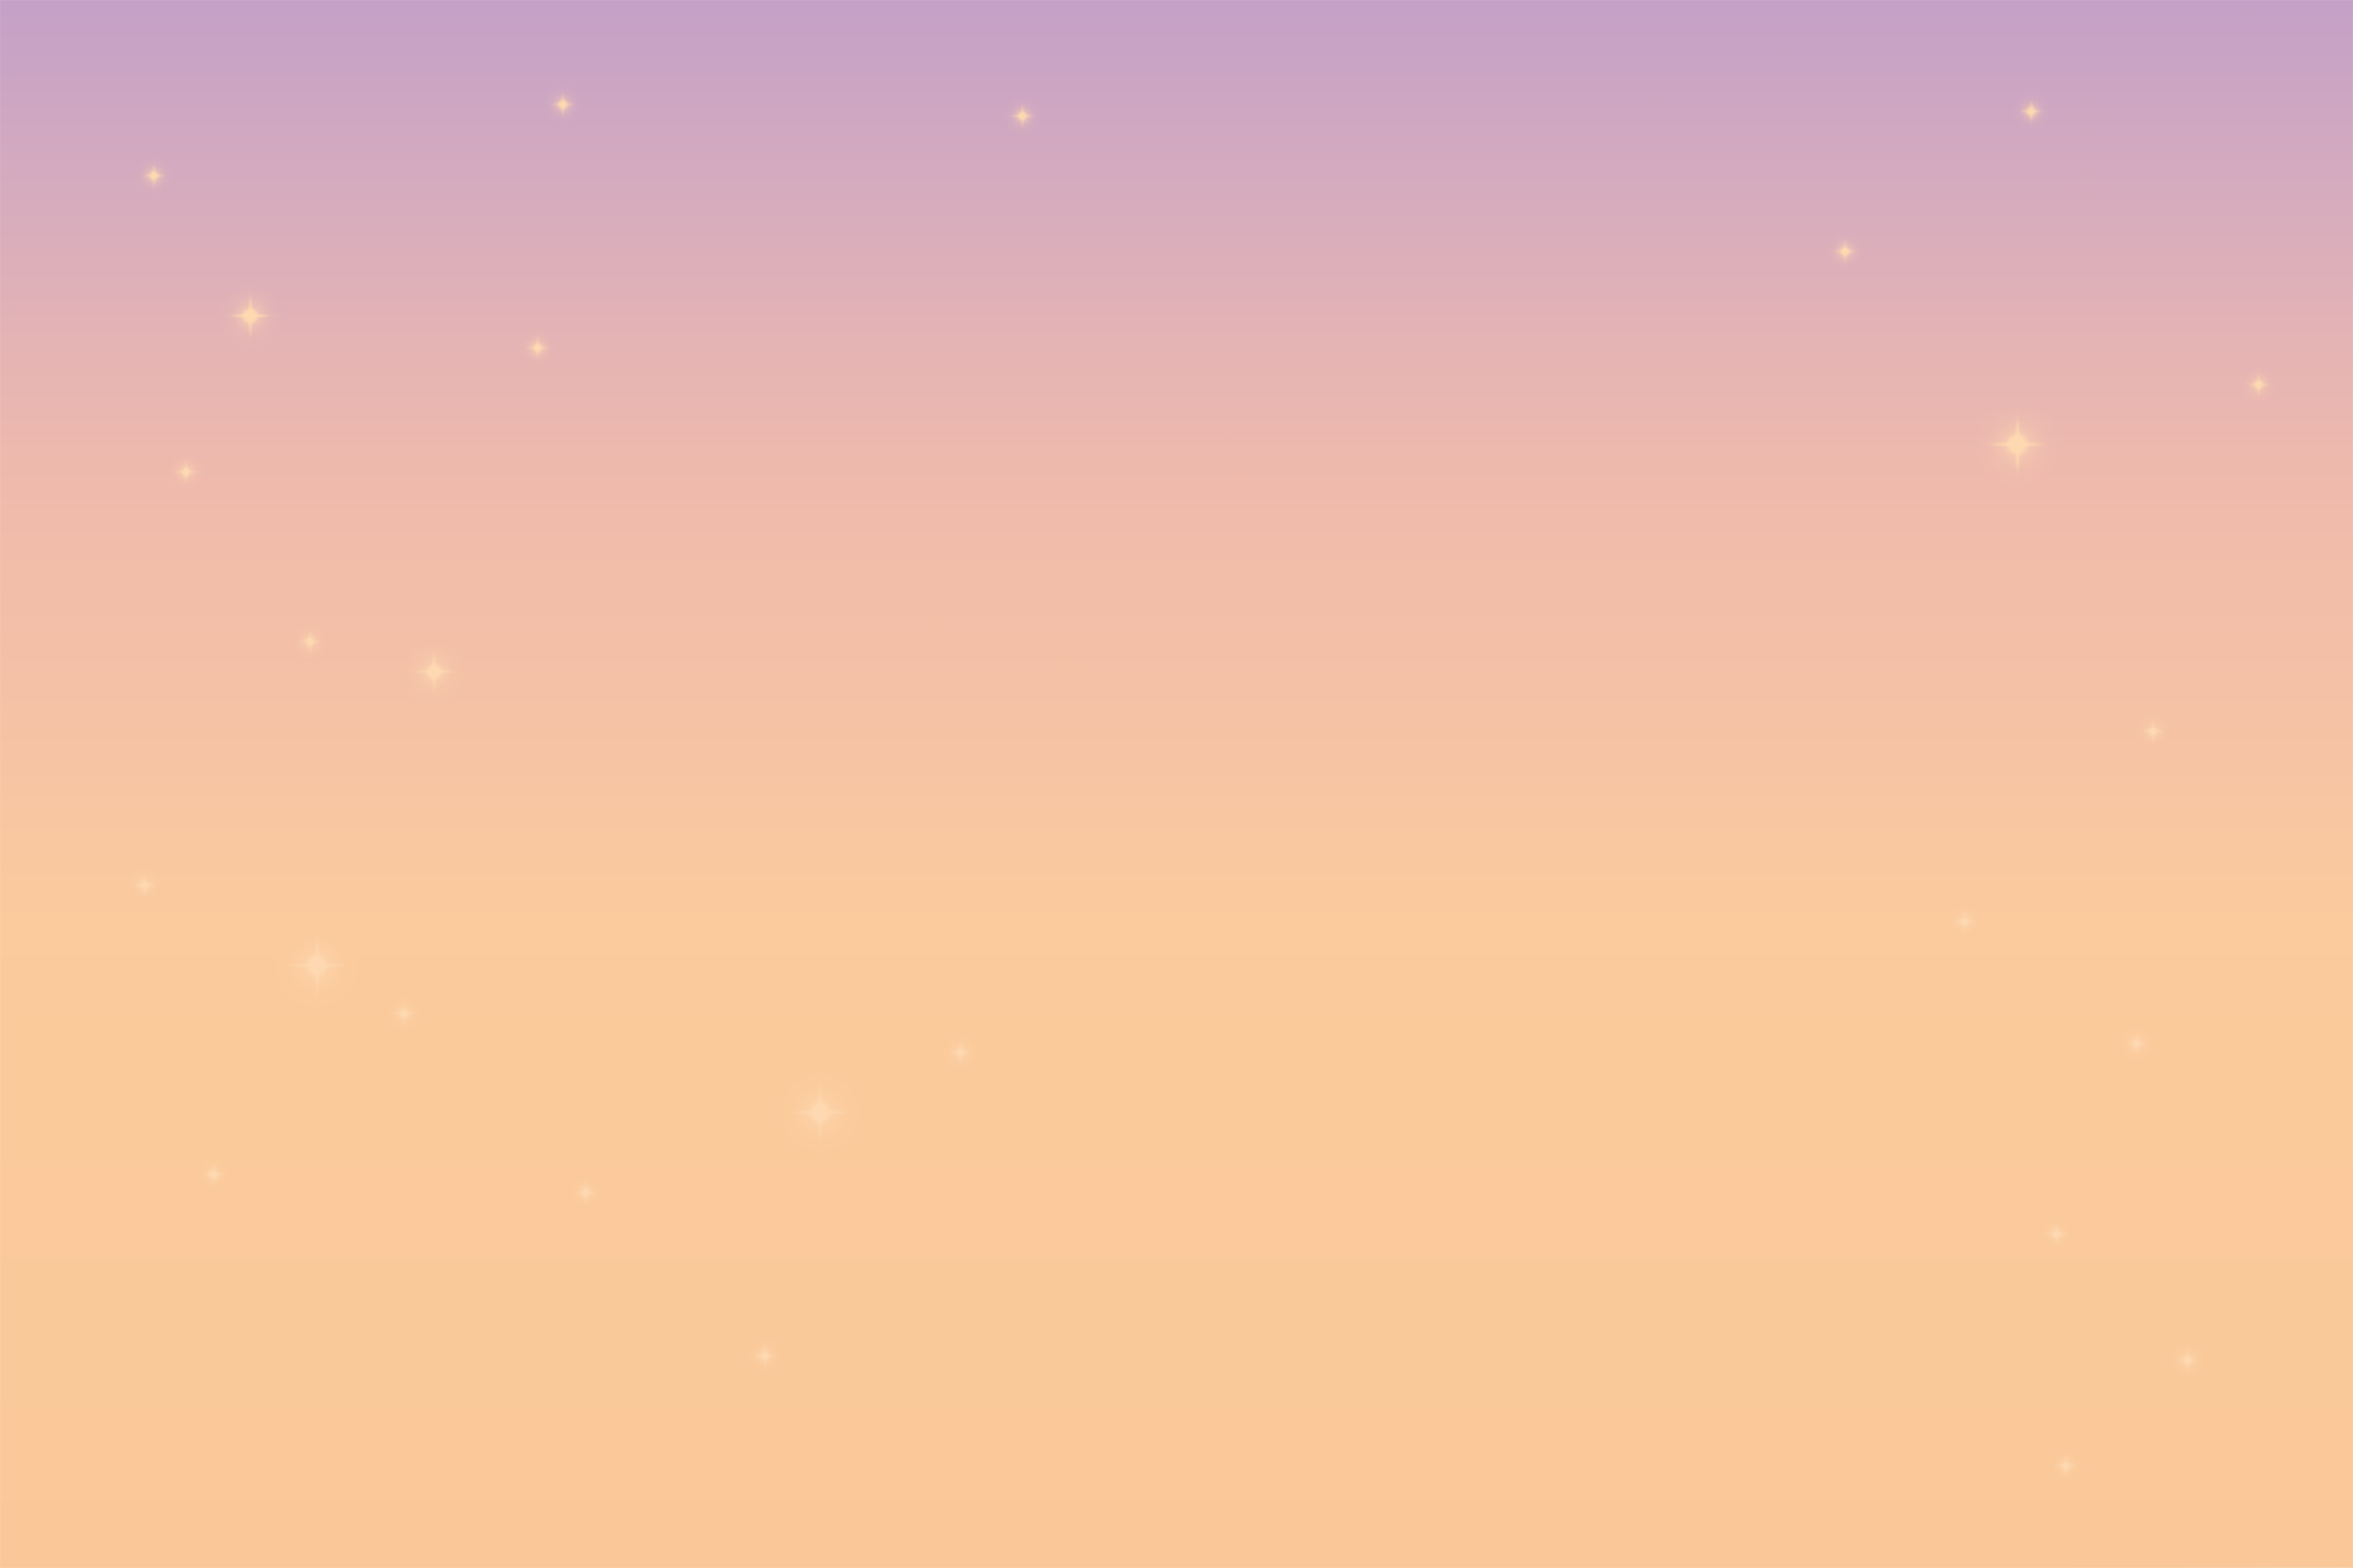
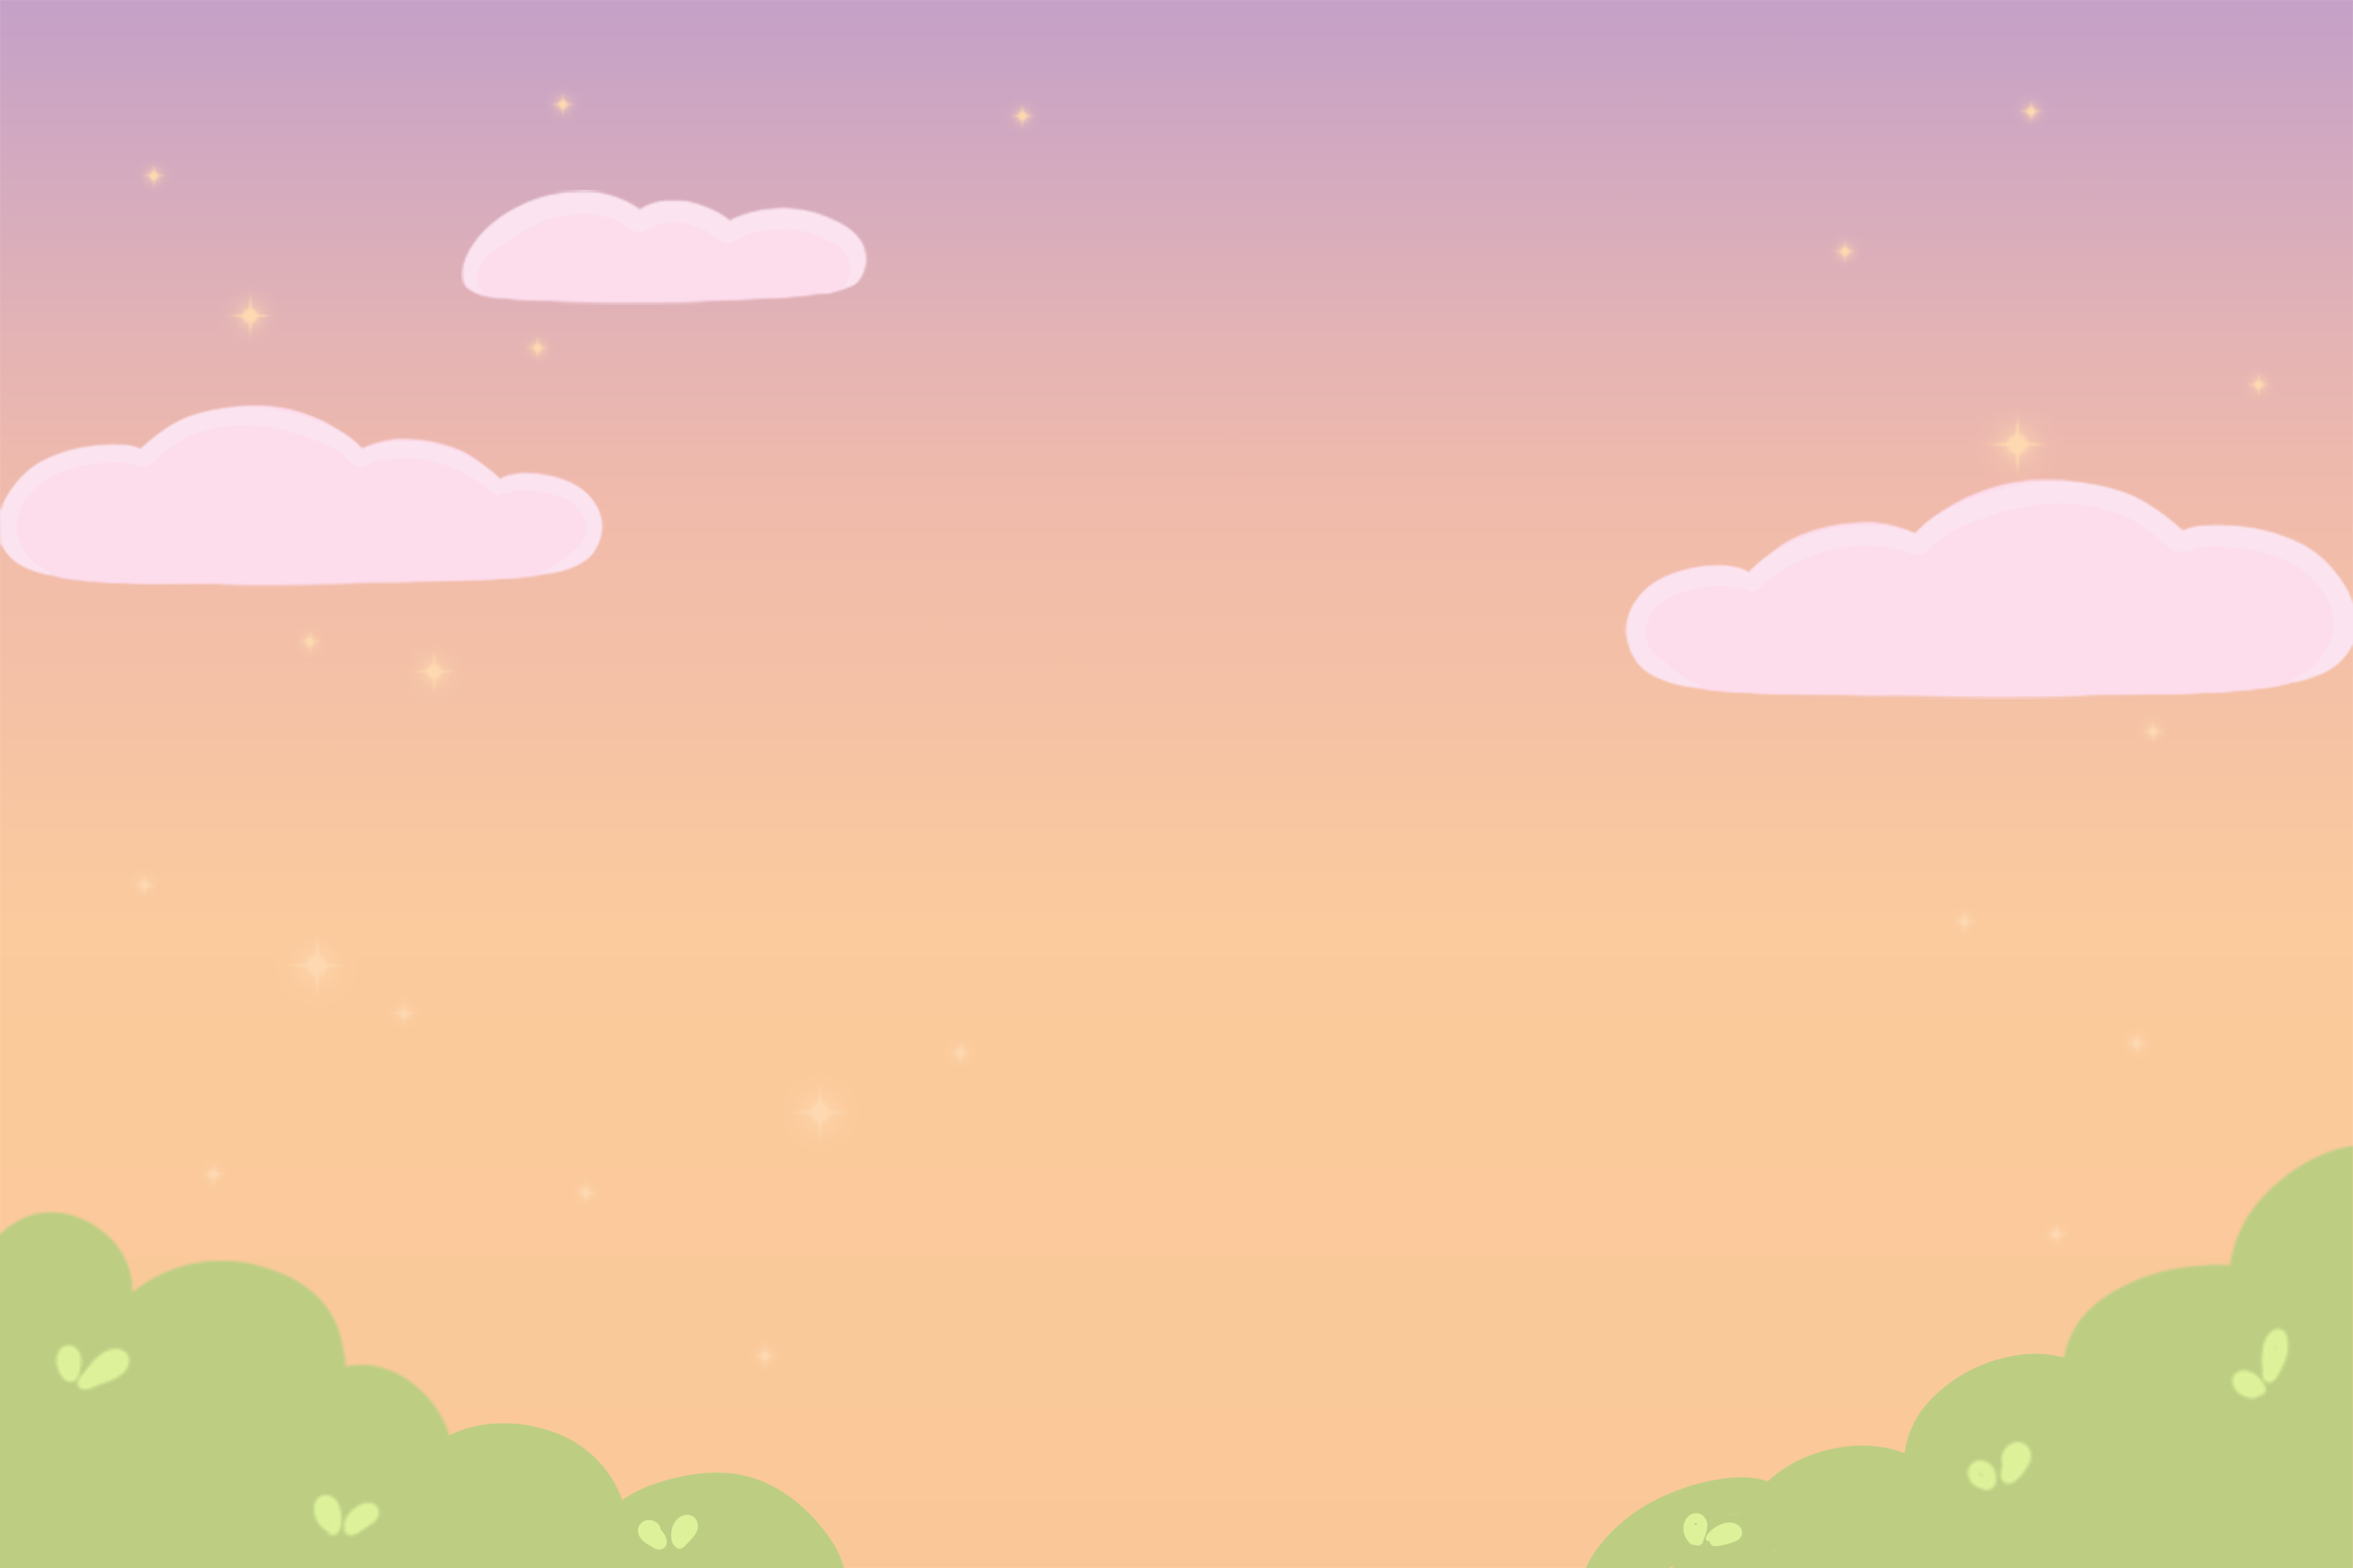
Add new background images and raccoon character images

diff --git a/index.html b/index.html
@@ -13,6 +13,8 @@
       <button id="start-btn">Start</button>
       <button id="how-to-play-btn">How to Play</button>
       <img id="raccoon" src="images/raccoon/raccoon1.png" alt="Raccoon wearing glasses waving cheerfully to the player" />
+      <img id="bushes" src="images/background/bush-900px.png" alt="A row of green bushes spanning the width of the screen" />
+      <img id="clouds" src="images/background/cloud-900px.png" alt="A row of clouds in the sky" />
     </div>
 
     <div id="how-to-play-area">

diff --git a/styles.css b/styles.css
@@ -61,6 +61,19 @@ h1{
   z-index: 10;     
 }
 
+#bushes {
+  position: fixed;  
+  bottom: 0px;
+  max-width: 500px;  
+  transform: translateX(-30px); /* optional fine-tune offset */
+}
+
+#clouds {
+  position: fixed;  
+  top: 0px;
+  max-width: 450px;  
+}
+
 /* Buttons */
 #start-btn, #how-to-play-btn, #back-btn {
     font-weight: bold;
